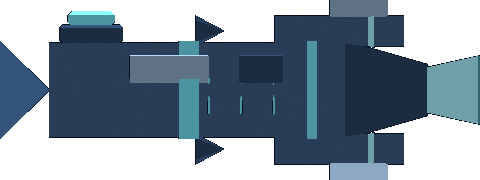
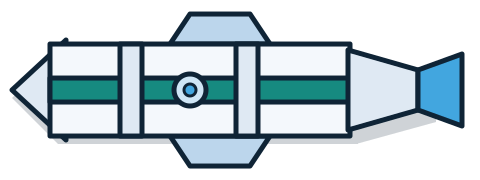
🚀🧊 ↝ [SSL-427 SSL-423]: Launch review ships (Explorer, Prospector) redrawn as outlined light parts on web and native, portrait scene gets a taller art area

diff --git a/web/components/game/MissionSetupRoutes.module.css b/web/components/game/MissionSetupRoutes.module.css
@@ -10,7 +10,7 @@
 .reviewBrief { display:flex; flex-direction:column; min-width:0; padding:20px; border-left:3px solid var(--mission-ink); background:var(--mission-paper-bright); }.reviewHeading h2 { margin:6px 0 0; font:800 clamp(20px,2.5vw,32px)/1.05 var(--ln-font-display); }.reviewFacts { display:grid; gap:0; margin:16px 0 0; }.reviewFacts > div { padding:8px 0; border-top:2px solid color-mix(in srgb,var(--mission-ink) 24%,transparent); }.reviewFacts dt { font:800 14px var(--ln-font-display); letter-spacing:.12em; }.reviewFacts dd { margin:4px 0 0; font:800 14px/1.25 var(--ln-font-display); }.reviewFacts .cargoReadout { margin-top:4px; }.reviewFacts .cargoChip { min-height:24px; font-size:14px; }.reviewFacts .cargoChip i { min-width:22px; }
 .inlineChoices { display:grid; grid-template-columns:1fr 1fr; gap:8px; margin-top:8px; }.inlineChoices > div { display:grid; grid-template-columns:minmax(0,1fr) auto; gap:4px 8px; padding:8px; border:2px solid color-mix(in srgb,var(--mission-ink) 32%,transparent); }.inlineChoices strong { overflow:hidden; font:800 14px var(--ln-font-display); text-overflow:ellipsis; white-space:nowrap; }.inlineChoices nav { grid-row:1/3; grid-column:2; display:flex; gap:4px; }.inlineChoices button { display:grid; place-items:center; width:32px; min-height:44px; padding:0; border:2px solid var(--mission-ink); background:var(--mission-paper); color:var(--mission-ink); cursor:pointer; }.inlineChoices button:disabled { opacity:.35; cursor:not-allowed; }.clearance { margin-top:auto; padding:8px; border-left:6px solid var(--ln-warn); background:var(--mission-paper); }.clearance[data-ready='true'] { border-left-color:var(--mission-green); }.clearance span,.clearance strong,.clearance small { display:block; }.clearance span { font:800 14px var(--ln-font-display); letter-spacing:.12em; }.clearance strong { margin-top:4px; font:800 14px var(--ln-font-display); }.clearance small { margin-top:4px; font:700 14px var(--ln-font-body); }.reviewBrief > .primary { width:100%; margin-top:12px; }
 @media (max-width:720px),(max-height:520px){.header{inset:8px 8px auto;}.header[data-dev-launcher='true']{top:8px;left:56px;}.back{width:40px;height:40px;}.title{min-height:40px;min-width:0;padding:6px 8px;}.title h1{font-size:16px;}.stage{inset:56px 8px 24px;border-width:2px;}.contractIdentity{top:8%;left:10%;}.contractCopy{top:34%;left:10%;width:46%;}.contractCopy p{display:none;}.contractFacts{left:10%;bottom:18%;gap:12px;}.contractCargo{top:8%;right:8%;width:36%;}.contractRocket{right:10%;top:42%;width:28%;}.contractSlide > .primary{right:8%;bottom:7%;min-width:0;}.carouselArrow{top:44%;width:40px;height:48px;}.previous{left:8px;}.next{right:8px;}.review{grid-template-columns:minmax(0,3fr) minmax(190px,2fr);}.reviewBrief{padding:10px;}.launchCaption{margin:0 12px 12px;}.launchCaption strong{font-size:18px;}.reviewFacts{margin-top:8px;}.reviewFacts > div{padding:5px 0;}.inlineChoices{gap:4px;}.inlineChoices > div{padding:4px;}.inlineChoices strong{font-size:14px;}.inlineChoices button{width:26px;min-height:44px;}.clearance{padding:6px;}.reviewBrief > .primary{min-height:40px;margin-top:8px;font-size:14px;}}
-@media (orientation:portrait){.review{grid-template-columns:1fr;grid-template-rows:minmax(180px,38%) 1fr;overflow-y:auto;}.launchScene{min-height:180px;}.reviewBrief{border-top:3px solid var(--mission-ink);border-left:0;}.contractIdentity{max-width:54%;}.contractIdentity strong{font-size:18px;}.contractCopy h2{font-size:28px;}.contractFacts{display:grid;grid-template-columns:1fr 1fr;width:48%;}.contractFacts div:last-child{display:none;}.contractCargo{width:38%;}.contractCargo .cargoChip span{display:none;}.contractRocket{top:42%;width:34%;}.inlineChoices{margin-top:12px;}.reviewBrief > .primary{position:sticky;bottom:0;z-index:2;margin-bottom:0;}.reviewBrief{padding-bottom:0;}}
+@media (orientation:portrait){.review{grid-template-columns:1fr;grid-template-rows:minmax(240px,46%) 1fr;overflow-y:auto;}.launchScene{min-height:240px;}.reviewBrief{border-top:3px solid var(--mission-ink);border-left:0;}.contractIdentity{max-width:54%;}.contractIdentity strong{font-size:18px;}.contractCopy h2{font-size:28px;}.contractFacts{display:grid;grid-template-columns:1fr 1fr;width:48%;}.contractFacts div:last-child{display:none;}.contractCargo{width:38%;}.contractCargo .cargoChip span{display:none;}.contractRocket{top:42%;width:34%;}.inlineChoices{margin-top:12px;}.reviewBrief > .primary{position:sticky;bottom:0;z-index:2;margin-bottom:0;}.reviewBrief{padding-bottom:0;}}
 @media (orientation:portrait) and (max-height:760px){.review{grid-template-rows:minmax(110px,22%) 1fr;}.launchScene{min-height:110px;}}
 @media (orientation:landscape) and (max-height:520px){.reviewBrief{overflow-y:auto;padding-bottom:0;}.reviewHeading h2{font-size:20px;}.reviewFacts > div{padding:3px 0;}.inlineChoices{grid-template-columns:1fr;}.reviewBrief > .primary{position:sticky;bottom:0;z-index:2;flex-shrink:0;margin-bottom:0;}.clearance{margin-top:8px;}}
 
